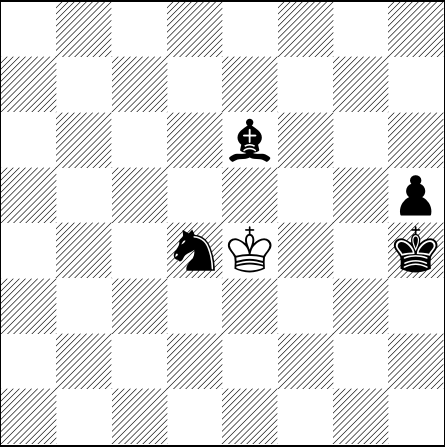
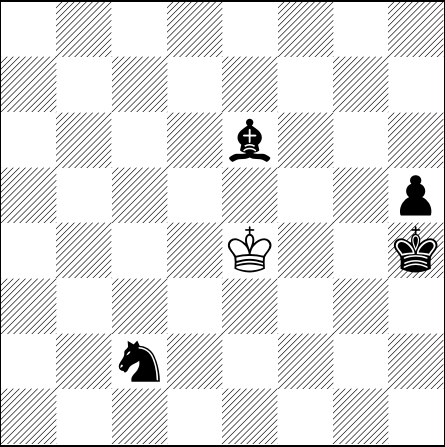
[automated] Regenerate text/pdf for chessboard

Changed region(s): [[0.2629, 0.7562, 0.3798, 0.8725], [0.3798, 0.4944, 0.4966, 0.6107]]

diff --git a/default_filepath.tex b/default_filepath.tex
@@ -13,6 +13,6 @@
 \normalsize%
 \setchessboard{showmover=false}%
 \newgame%
-\fenboard{8/8/4b3/7p/3nK2k/8/8/8 b - - 15 187}%
+\fenboard{8/8/4b3/7p/4K2k/8/2n5/8 w - - 16 188}%
 \chessboard%
 \end{document}
